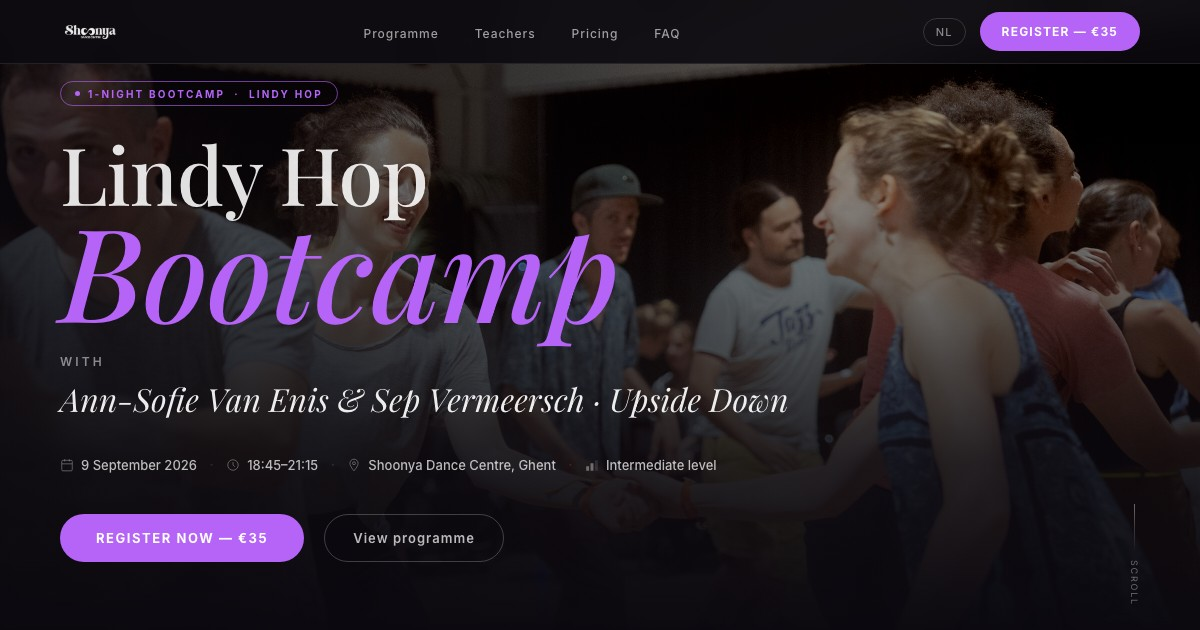
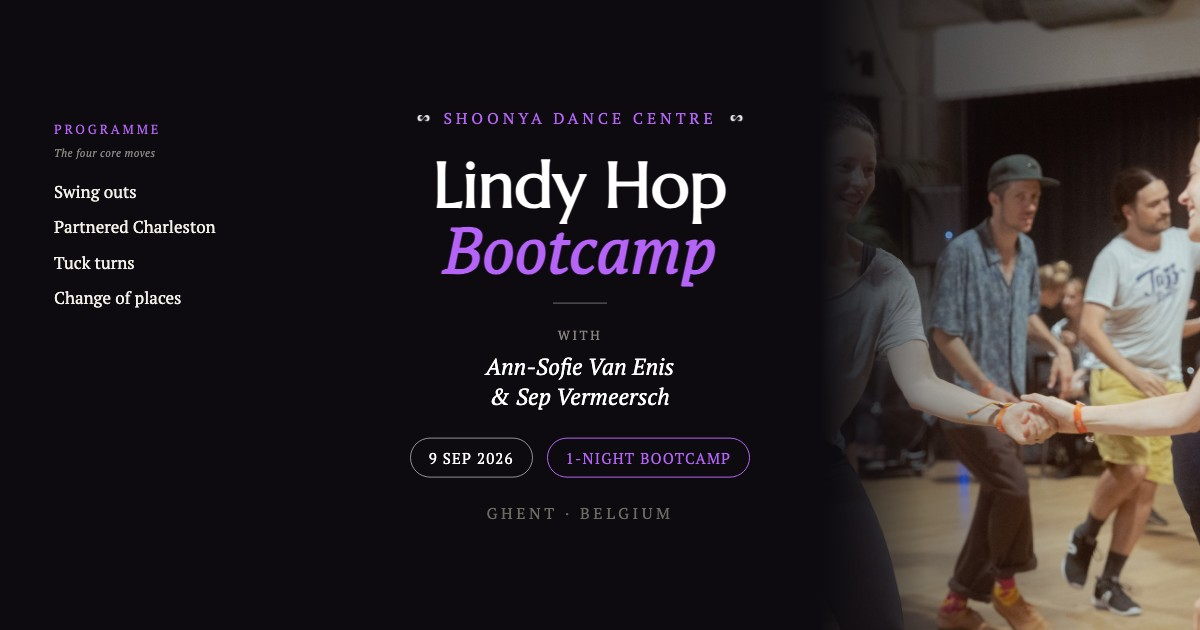
Unify per-page share images to RTC-style branded cards
- Indian Dance: replace raw tera-taali.jpg with a bespoke 1200x630
  card (programme by day, Swapnil Dagliya, dates, portrait)
- Lindy Hop: replace hero-screenshot og with a clean bespoke card
  (four core moves, teachers, no nav bar)
- Repoint Indian Dance og:image + twitter:image (EN + NL) to the
  new card; alt text updated

All four workshop share cards now share one consistent template.

diff --git a/indian-dance-summer-intensive/nl/index.html b/indian-dance-summer-intensive/nl/index.html
@@ -20,8 +20,8 @@
   <meta property="og:site_name" content="Shoonya Dance Centre">
   <meta property="og:title" content="Indian Dance Summer Intensive 2026 · Gent">
   <meta property="og:description" content="Vier dagen. Vijf Indiase dansstijlen. 26–29 augustus 2026 bij Shoonya Dance Centre, Gent. Open niveau — met Swapnil Dagliya.">
-  <meta property="og:image" content="https://workshops.shoonyadance.com/indian-dance-summer-intensive/img/tera-taali.jpg">
-  <meta property="og:image:alt" content="Swapnil Dagliya voert Terah Taali op — messingcymbalen gebonden aan het lichaam">
+  <meta property="og:image" content="https://workshops.shoonyadance.com/indian-dance-summer-intensive/og-image.jpg">
+  <meta property="og:image:alt" content="Indian Dance Summer Intensive 2026 — vier dagen met Swapnil Dagliya bij Shoonya Dance Centre, Gent">
   <meta property="og:image:width" content="1200">
   <meta property="og:image:height" content="630">
   <meta property="og:url" content="https://workshops.shoonyadance.com/indian-dance-summer-intensive/nl/">
@@ -32,7 +32,7 @@
   <meta name="twitter:card" content="summary_large_image">
   <meta name="twitter:title" content="Indian Dance Summer Intensive 2026 · Gent">
   <meta name="twitter:description" content="Vier dagen. Vijf Indiase dansstijlen. 26–29 augustus 2026 bij Shoonya Dance Centre, Gent.">
-  <meta name="twitter:image" content="https://workshops.shoonyadance.com/indian-dance-summer-intensive/img/tera-taali.jpg">
+  <meta name="twitter:image" content="https://workshops.shoonyadance.com/indian-dance-summer-intensive/og-image.jpg">
 
   <!-- ===== STRUCTURED DATA ===== -->
   <script type="application/ld+json">
@@ -49,7 +49,7 @@
         "eventStatus": "https://schema.org/EventScheduled",
         "eventAttendanceMode": "https://schema.org/OfflineEventAttendanceMode",
         "inLanguage": ["nl", "en"],
-        "image": "https://workshops.shoonyadance.com/indian-dance-summer-intensive/img/tera-taali.jpg",
+        "image": "https://workshops.shoonyadance.com/indian-dance-summer-intensive/og-image.jpg",
         "url": "https://workshops.shoonyadance.com/indian-dance-summer-intensive/nl/",
         "location": {
           "@type": "Place",

diff --git a/indian-dance-summer-intensive/index.html b/indian-dance-summer-intensive/index.html
@@ -20,8 +20,8 @@
   <meta property="og:site_name" content="Shoonya Dance Centre">
   <meta property="og:title" content="Indian Dance Summer Intensive 2026 · Gent">
   <meta property="og:description" content="Four days. Five Indian dance forms. 26–29 August 2026 at Shoonya Dance Centre, Gent. Open level — with Swapnil Dagliya.">
-  <meta property="og:image" content="https://workshops.shoonyadance.com/indian-dance-summer-intensive/img/tera-taali.jpg">
-  <meta property="og:image:alt" content="Swapnil Dagliya performing Terah Taali on stage">
+  <meta property="og:image" content="https://workshops.shoonyadance.com/indian-dance-summer-intensive/og-image.jpg">
+  <meta property="og:image:alt" content="Indian Dance Summer Intensive 2026 — four days with Swapnil Dagliya at Shoonya Dance Centre, Ghent">
   <meta property="og:image:width" content="1200">
   <meta property="og:image:height" content="630">
   <meta property="og:url" content="https://workshops.shoonyadance.com/indian-dance-summer-intensive/">
@@ -32,7 +32,7 @@
   <meta name="twitter:card" content="summary_large_image">
   <meta name="twitter:title" content="Indian Dance Summer Intensive 2026 · Gent">
   <meta name="twitter:description" content="Four days. Five Indian dance forms. 26–29 August 2026 at Shoonya Dance Centre, Gent.">
-  <meta name="twitter:image" content="https://workshops.shoonyadance.com/indian-dance-summer-intensive/img/tera-taali.jpg">
+  <meta name="twitter:image" content="https://workshops.shoonyadance.com/indian-dance-summer-intensive/og-image.jpg">
 
   <!-- ===== STRUCTURED DATA (SEO + AEO) ===== -->
   <script type="application/ld+json">
@@ -49,7 +49,7 @@
         "eventStatus": "https://schema.org/EventScheduled",
         "eventAttendanceMode": "https://schema.org/OfflineEventAttendanceMode",
         "inLanguage": ["en", "nl"],
-        "image": "https://workshops.shoonyadance.com/indian-dance-summer-intensive/img/tera-taali.jpg",
+        "image": "https://workshops.shoonyadance.com/indian-dance-summer-intensive/og-image.jpg",
         "url": "https://workshops.shoonyadance.com/indian-dance-summer-intensive/",
         "location": {
           "@type": "Place",
